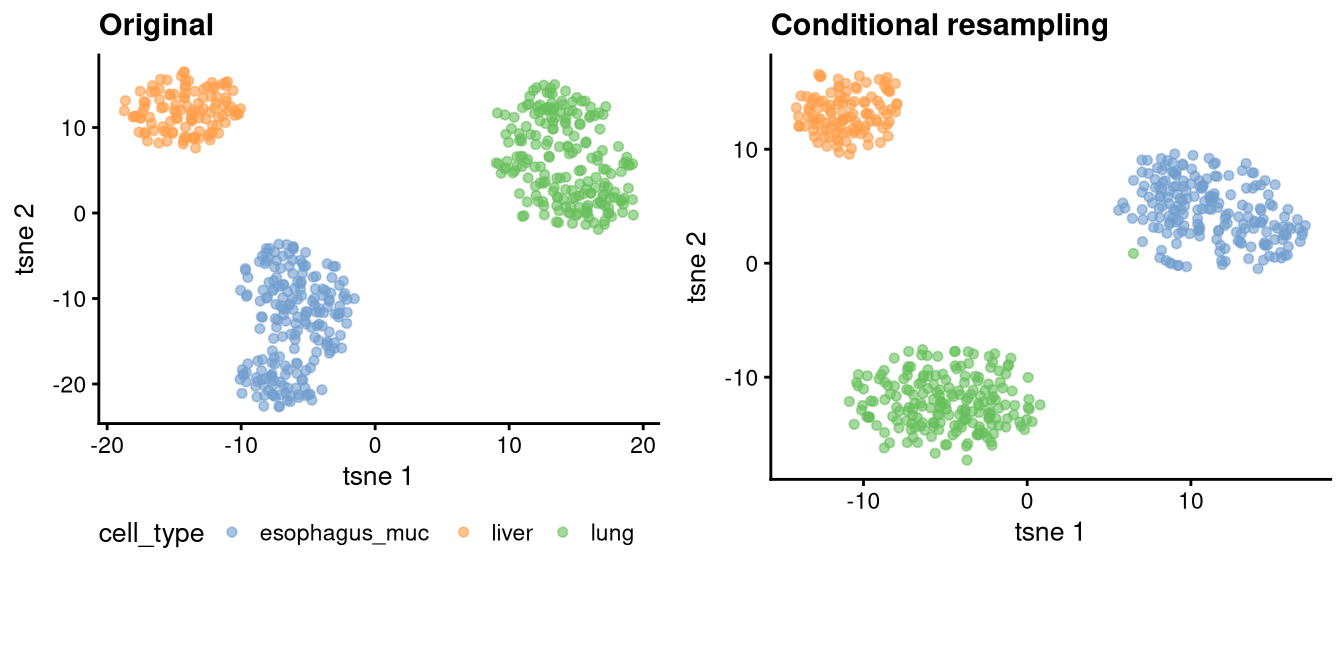
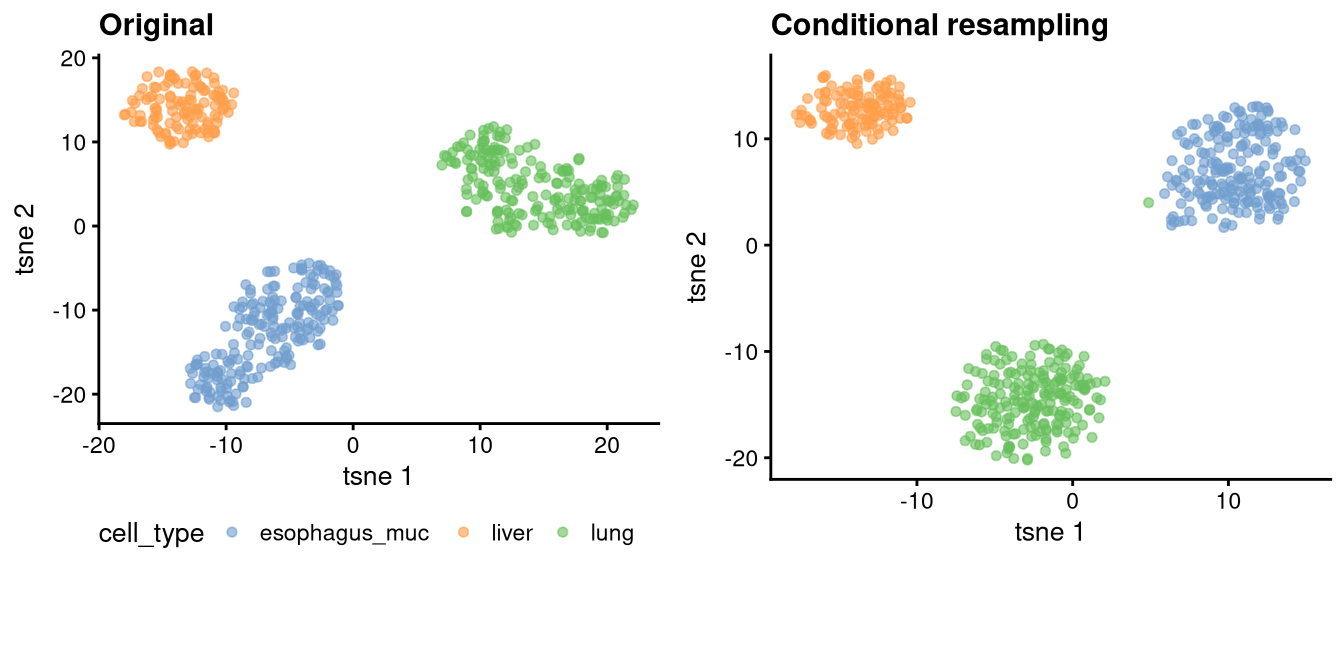
Deploying to gh-pages from @ bips-hb/harf@730da2626ed42c9625d1fb8c5e84eccc5c8f28a3 🚀

diff --git a/articles/harf.html b/articles/harf.html
@@ -54,7 +54,7 @@
                         <h4 data-toc-skip class="author">Cesaire
 Fouodo</h4>
             
-            <h4 data-toc-skip class="date">2026-06-11</h4>
+            <h4 data-toc-skip class="date">2026-06-21</h4>
       
       <small class="dont-index">Source: <a href="https://github.com/bips-hb/harf/blob/main/vignettes/harf.Rmd" class="external-link"><code>vignettes/harf.Rmd</code></a></small>
       <div class="d-none name"><code>harf.Rmd</code></div>

diff --git a/reference/h_forge.html b/reference/h_forge.html
@@ -53,7 +53,7 @@ data</p>
 <span>  nomatch <span class="op">=</span> <span class="fu"><a href="https://rdrr.io/r/base/c.html" class="external-link">c</a></span><span class="op">(</span><span class="st">"force"</span>, <span class="st">"na"</span><span class="op">)</span>,</span>
 <span>  verbose <span class="op">=</span> <span class="cn">TRUE</span>,</span>
 <span>  stepsize <span class="op">=</span> <span class="fl">0</span>,</span>
-<span>  parallel <span class="op">=</span> <span class="cn">TRUE</span></span>
+<span>  parallel <span class="op">=</span> <span class="cn">FALSE</span></span>
 <span><span class="op">)</span></span></code></pre></div>
     </div>
 

diff --git a/reference/h_forge.md b/reference/h_forge.md
@@ -17,7 +17,7 @@ h_forge(
   nomatch = c("force", "na"),
   verbose = TRUE,
   stepsize = 0,
-  parallel = TRUE
+  parallel = FALSE
 )
 ```
 